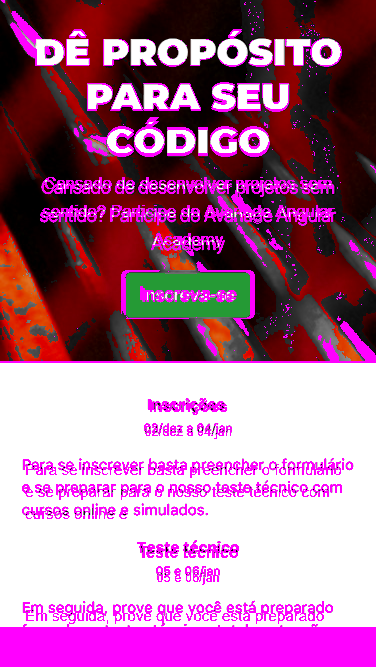
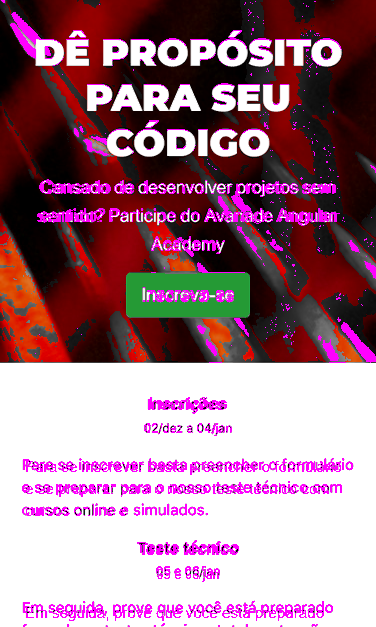
AJustes pra chegar o mais perto possivel

diff --git a/public/css/style.css b/public/css/style.css
@@ -23,7 +23,7 @@ body::-webkit-scrollbar {
 }
 @media (max-width: 376px) {
   .banner-main {
-    padding: 30px 0 42px 0;
+    padding: 30px 0 45px 0;
   }
 }
 .banner-main :before {
@@ -50,9 +50,19 @@ body::-webkit-scrollbar {
   font-weight: 900;
   text-transform: uppercase;
 }
+@media (max-width: 376px) {
+  .banner-main h1 {
+    font-size: 2.47em;
+  }
+}
 .banner-main p {
   font-size: 1.11em;
   line-height: 1.7em;
+}
+@media (max-width: 376px) {
+  .banner-main p {
+    font-size: 1.15em;
+  }
 }
 .banner-main button {
   cursor: pointer;
@@ -62,9 +72,21 @@ body::-webkit-scrollbar {
   -webkit-border-radius: 6px;
   border-radius: 6px;
 }
+@media (max-width: 376px) {
+  .banner-main button {
+    margin-top: -4px;
+    font-size: 18px;
+    padding: 12px 14px 14px 14px;
+  }
+}
 .information .row {
   padding: 34px 10px;
   margin: 0px;
+}
+@media (max-width: 376px) {
+  .information .row {
+    padding-top: 29px;
+  }
 }
 .information h3 {
   font-size: 16px;

diff --git a/public/less/style.less b/public/less/style.less
@@ -23,7 +23,7 @@ body::-webkit-scrollbar {
 	position: relative;
 
 	@media (max-width: 376px){
-		padding: 30px 0 42px 0;
+		padding: 30px 0 45px 0;
 	}
 	:before{
 		display: block;
@@ -51,11 +51,16 @@ body::-webkit-scrollbar {
 		text-transform: uppercase;
 
 		@media (max-width: 376px){
+			font-size: 2.47em;
 		}
 	}
 	p{
 		font-size: 1.11em;
 		line-height: 1.7em;
+
+		@media (max-width: 376px){
+			font-size: 1.15em;
+		}
 	}
 	button{
 		cursor: pointer;
@@ -63,6 +68,12 @@ body::-webkit-scrollbar {
 		padding: 13px 17px 15px 17px;
 		font-size: 19px;
 		border-radius: 6px;
+
+		@media (max-width: 376px){
+			margin-top: -4px;
+			font-size: 18px;
+			padding: 12px 14px 14px 14px;
+		}
 	}
 }
 .information{
@@ -70,6 +81,10 @@ body::-webkit-scrollbar {
 	.row{
 		padding: 34px 10px;
 		margin: 0px;
+
+		@media (max-width: 376px){
+			padding-top: 29px;
+		}
 	}	
 	h3{
 		font-size: 16px;

diff --git a/test/AcceptanceTests.js b/test/AcceptanceTests.js
@@ -20,7 +20,7 @@ describe('Tryout#1 - ', function() {
 	    });
 
 	    it('O layout mobile deve ser igual ao gabarito', function () {
-	        layoutTestRunner("assertion-mobile.png", 376, 667)
+	        layoutTestRunner("assertion-mobile.png", 376, 627)
 	    });
 
 	});
